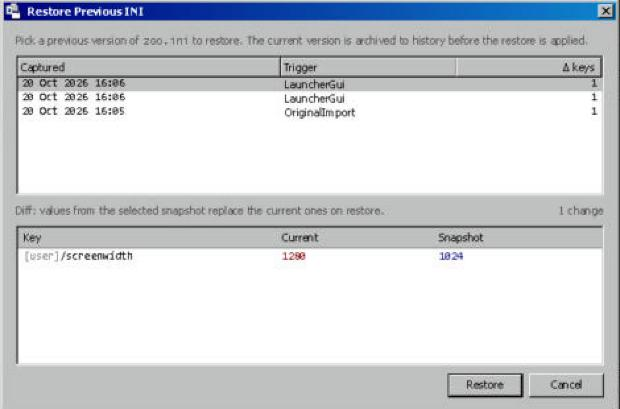
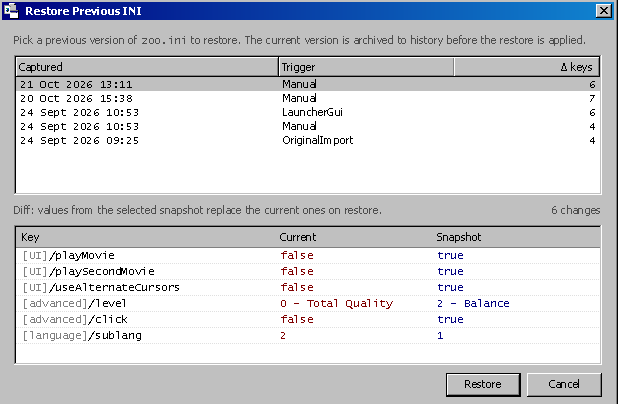
docs(📝): tick the milestone 9.2 plan and refresh the Restore dialogue screenshot

Changed region(s): [[0.0, 0.0, 1.0, 1.0], [0.4919, 0.7426, 0.6456, 0.7723], [0.4612, 0.7723, 0.4919, 0.802]]

diff --git a/Docs/Plans/Epic-1-MVP/milestone-9.2-ini-display-polish.md b/Docs/Plans/Epic-1-MVP/milestone-9.2-ini-display-polish.md
@@ -75,7 +75,7 @@ this plan is silent. Background: the [milestone-9.1 ledger](../../Ledgers/Epic-1
 - Produces: on `IniNumberFieldViewModel`, `string FormatString`, `NumberFormatInfo NumberFormat` and `NumberStyles ParsingNumberStyle` — the currency trio when the
   descriptor `IsCurrency`, otherwise `"0"`, `CultureInfo.CurrentCulture.NumberFormat` and `NumberStyles.Integer` (today's behaviour).
 
-- [ ] **Step 1: Write the failing tests.**
+- [x] **Step 1: Write the failing tests.**
   - `IniEditorCatalogueTests.CashRows_AreCurrency`: the descriptors whose `IsCurrency` is true are exactly `[UI]/MSStartingCash`, `MSCashIncrement`, `MSMinCash`,
     `MSMaxCash`; their hints are `$0–$10,000,000`, `$100–$1,000,000`, `$0–$10,000,000`, `$0–$10,000,000`.
   - `IniFieldViewModelTests.Number_Cash_FormatsAsDollars`: under `CultureInfo.CurrentCulture = de-DE` (restore it in `finally`), a cash row's
@@ -84,11 +84,11 @@ this plan is silent. Background: the [milestone-9.1 ledger](../../Ledgers/Epic-1
   - `IniFieldViewModelTests.Number_Cash_DecimalInputWritesTheTruncatedInteger`: load `MSStartingCash` with `5000`; parse `$1,000.75` with the row's style and
     format and assign it to `Value`; `TryGetEdit(out edit)` is true and `edit` is `1000`.
   - `IniFieldViewModelTests.Number_NonCash_KeepsThePlainFormat`: `UpdateRate`'s `FormatString` is `0` and `ParsingNumberStyle` is `NumberStyles.Integer`.
-- [ ] **Step 2: Run** `--filter "FullyQualifiedName~IniEditorCatalogueTests|FullyQualifiedName~IniFieldViewModelTests"` → the new tests fail to compile or fail.
-- [ ] **Step 3: Implement** the interfaces above. In the catalogue, add a `Cash(section, key, hint, help)` factory beside `Number` that sets `IsCurrency = true`, and
+- [x] **Step 2: Run** `--filter "FullyQualifiedName~IniEditorCatalogueTests|FullyQualifiedName~IniFieldViewModelTests"` → the new tests fail to compile or fail.
+- [x] **Step 3: Implement** the interfaces above. In the catalogue, add a `Cash(section, key, hint, help)` factory beside `Number` that sets `IsCurrency = true`, and
   use it for the four rows with the new hints. In `IniNumberFieldView.axaml`, bind `FormatString`, `NumberFormat` and `ParsingNumberStyle` to the view model.
-- [ ] **Step 4: Run** the same filter, then the whole Desktop test project → pass.
-- [ ] **Step 5: Commit** — `feat(✨): show the INI cash settings as dollars`
+- [x] **Step 4: Run** the same filter, then the whole Desktop test project → pass.
+- [x] **Step 5: Commit** — `feat(✨): show the INI cash settings as dollars`
 
 ---
 
@@ -108,17 +108,17 @@ this plan is silent. Background: the [milestone-9.1 ledger](../../Ledgers/Epic-1
 `"true"` / `"false"` from `TryParseBool` (**ignore `Inverted`**); `Number` with `IsCurrency` → `IniCurrencyFormat.Format` of the parsed integer; anything else, or a
 value that does not map, → `value` unchanged.
 
-- [ ] **Step 1: Write the failing tests** in `IniDisplayTextTests` (one `[ Theory ]` or several `[ Fact ]`s):
+- [x] **Step 1: Write the failing tests** in `IniDisplayTextTests` (one `[ Theory ]` or several `[ Fact ]`s):
   `[user]/fullscreen` `1` → `Fullscreen`, `0` → `Windowed`; `[advanced]/level` `2` → `2 – Balance`; `[UI]/helpType` ` 1` → `Standard`; `[UI]/playMovie` `1` →
   `true`, `0` → `false`, `True` → `true`; `[UI]/noMenuMusic` `1` → `true`; `[UI]/MSStartingCash` `10000` → `$10,000`; `[user]/screenwidth` `800` → `800`;
   `[UI]/menuMusic` `x.mp3` → `x.mp3`; `[user]/fullscreen` `7` → `7`; an unknown `[nope]/key` `abc` → `abc`.
   In `RestorePreviousIniDialogViewModelTests`, add `Initialise_DiffShowsEditorValues`: a diff row for `[user]/fullscreen` current `1`, snapshot `0` reads
   `CurrentText: "Fullscreen"`, `SnapshotText: "Windowed"`; the existing `(not set)` assertion stays.
-- [ ] **Step 2: Run** `--filter "FullyQualifiedName~IniDisplayTextTests|FullyQualifiedName~RestorePreviousIniDialogViewModelTests"` → fail.
-- [ ] **Step 3: Implement** `TryGetField` (a dictionary built once from `Sections`) and `IniDisplayText.Format`; in `ToDiffRow`, pass both values through
+- [x] **Step 2: Run** `--filter "FullyQualifiedName~IniDisplayTextTests|FullyQualifiedName~RestorePreviousIniDialogViewModelTests"` → fail.
+- [x] **Step 3: Implement** `TryGetField` (a dictionary built once from `Sections`) and `IniDisplayText.Format`; in `ToDiffRow`, pass both values through
   `IniDisplayText.Format(row.Id, …)`, keeping `NotSet` for a null `Current`.
-- [ ] **Step 4: Run** the same filter, then the whole Desktop test project → pass.
-- [ ] **Step 5: Commit** — `feat(✨): show Restore Previous INI diff values as the editor shows them`
+- [x] **Step 4: Run** the same filter, then the whole Desktop test project → pass.
+- [x] **Step 5: Commit** — `feat(✨): show Restore Previous INI diff values as the editor shows them`
 
 ---
 
@@ -135,18 +135,18 @@ value that does not map, → `value` unchanged.
 New help copy: the picker — `Game language. Choosing an entry sets both LANGID and SUBLANGID below.`; `lang` — `Windows primary language identifier (LANGID). Set
 by the language picker above.`; `sublang` — `Windows sub-language identifier (SUBLANGID). Set by the language picker above.`
 
-- [ ] **Step 1: Write the failing tests.**
+- [x] **Step 1: Write the failing tests.**
   - `IniEditorCatalogueTests.OnlyTheLanguageCodes_AreReadOnly`: the descriptors with `IsReadOnly` are exactly `[language]/lang` and `[language]/sublang`.
   - `IniFieldViewModelTests.LanguagePicker_UnlistedPair_ShowsBothCodesAndNoSelection`: load `lang` `9`, `sublang` `7`; both rows are `IsReadOnly`, show `9` and `7`,
     and `SelectedOption` is null.
   - `IniFieldViewModelTests.LanguagePicker_ChoosingAfterUnlistedPair_WritesBothReadOnlyRows`: from that state, set `SelectedOption` to `German (Germany)`; the rows
     read `7` / `1` and both are dirty.
-- [ ] **Step 2: Run** `--filter "FullyQualifiedName~IniEditorCatalogueTests|FullyQualifiedName~IniFieldViewModelTests"` → fail.
-- [ ] **Step 3: Implement.** Set `IsReadOnly = true` on the two catalogue rows (and the new help copy); expose it on the number view model; in the view bind
+- [x] **Step 2: Run** `--filter "FullyQualifiedName~IniEditorCatalogueTests|FullyQualifiedName~IniFieldViewModelTests"` → fail.
+- [x] **Step 3: Implement.** Set `IsReadOnly = true` on the two catalogue rows (and the new help copy); expose it on the number view model; in the view bind
   `NumericUpDown.IsReadOnly` and set `ShowButtonSpinner` to its negation. Confirm in the running app (or by reading the Classic template) that the inner text box picks
   up `App.axaml`'s read-only grey; if it does not, extend that style's selector to cover a read-only `NumericUpDown`'s text box.
-- [ ] **Step 4: Run** the same filter, then the whole Desktop test project → pass.
-- [ ] **Step 5: Commit** — `feat(✨): make the INI language codes read-only behind the picker`
+- [x] **Step 4: Run** the same filter, then the whole Desktop test project → pass.
+- [x] **Step 5: Commit** — `feat(✨): make the INI language codes read-only behind the picker`
 
 ---
 
@@ -157,17 +157,17 @@ by the language picker above.`; `sublang` — `Windows sub-language identifier (
   `SaveChangesPromptView.axaml`
 - Modify: `Docs/Specs/1-zoo-tycoon-launcher-master-design.md`, `Docs/UserInterfaceDesign/conventions.md`
 
-- [ ] **Step 1: History headers.** In the history `DataGrid`, set `CanUserResizeColumns="False"` and, in its existing `DataGridColumnHeader` style, set
+- [x] **Step 1: History headers.** In the history `DataGrid`, set `CanUserResizeColumns="False"` and, in its existing `DataGridColumnHeader` style, set
   `IsHitTestVisible` to `False` so a click neither depresses nor resizes a header.
-- [ ] **Step 2: Titles.** `ConfirmationPromptView` and `ErrorMessageView`: `Title="{Binding Title, StringFormat='  {0}'}"`; `SaveChangesPromptView`:
+- [x] **Step 2: Titles.** `ConfirmationPromptView` and `ErrorMessageView`: `Title="{Binding Title, StringFormat='  {0}'}"`; `SaveChangesPromptView`:
   `Title="  Zoo Tycoon Launcher"`.
-- [ ] **Step 3: SDD.** §9.7 *Diff viewer*: add that cells show values as the editor does (decision 1, including the inverted-key rule) and that the snapshot grid's
+- [x] **Step 3: SDD.** §9.7 *Diff viewer*: add that cells show values as the editor does (decision 1, including the inverted-key rule) and that the snapshot grid's
   headers are inert; §9.3: add a sentence after the `[UI]` sub-header paragraph covering the cash display (decision 5) and the read-only language codes (decision 4).
   Bump to revision **1.11** (Document control *Version* and *Last updated* 21 October 2026, and a revision-history row summarising milestone 9.2).
-- [ ] **Step 4: conventions.md.** Under §4.1, after the icon table, add: every `ClassicWindow` title starts with two spaces so the text clears the title-bar icon
+- [x] **Step 4: conventions.md.** Under §4.1, after the icon table, add: every `ClassicWindow` title starts with two spaces so the text clears the title-bar icon
   (Classic.Avalonia leaves no gap), including titles bound from a view model.
-- [ ] **Step 5: Build and test.** `dotnet build Erdmier.ZooTycoonLauncher.slnx` (0 warnings), then every test project → pass. Markdown lines touched ≤ 180.
-- [ ] **Step 6: Commit** — `style(🎨): make the history headers inert and space the prompt titles; document milestone 9.2`
+- [x] **Step 5: Build and test.** `dotnet build Erdmier.ZooTycoonLauncher.slnx` (0 warnings), then every test project → pass. Markdown lines touched ≤ 180.
+- [x] **Step 6: Commit** — `style(🎨): make the history headers inert and space the prompt titles; document milestone 9.2`
 
 ---
 
@@ -175,10 +175,10 @@ by the language picker above.`; `sublang` — `Windows sub-language identifier (
 
 Run by the controller, which has desktop control; implementers do not.
 
-- [ ] **Step 1: Drive** the launcher against a sample installation: the `[UI]` cash rows read `$…` and accept `250000`; the `[language]` codes are grey with no
+- [x] **Step 1: Drive** the launcher against a sample installation: the `[UI]` cash rows read `$…` and accept `250000`; the `[language]` codes are grey with no
   spinner and change only through the picker; the Restore dialogue's diff reads `Fullscreen` / `true` / `$…`, its history headers ignore clicks; the Restore
   confirmation's title clears its icon. Close the launcher afterwards.
-- [ ] **Step 2: Refresh** `Docs/UserInterfaceDesign/ImplementationScreenshots/RestorePreviousIniDialogue.png` if the diff changed visibly.
+- [x] **Step 2: Refresh** `Docs/UserInterfaceDesign/ImplementationScreenshots/RestorePreviousIniDialogue.png` if the diff changed visibly.
 
 ## Verification
 
